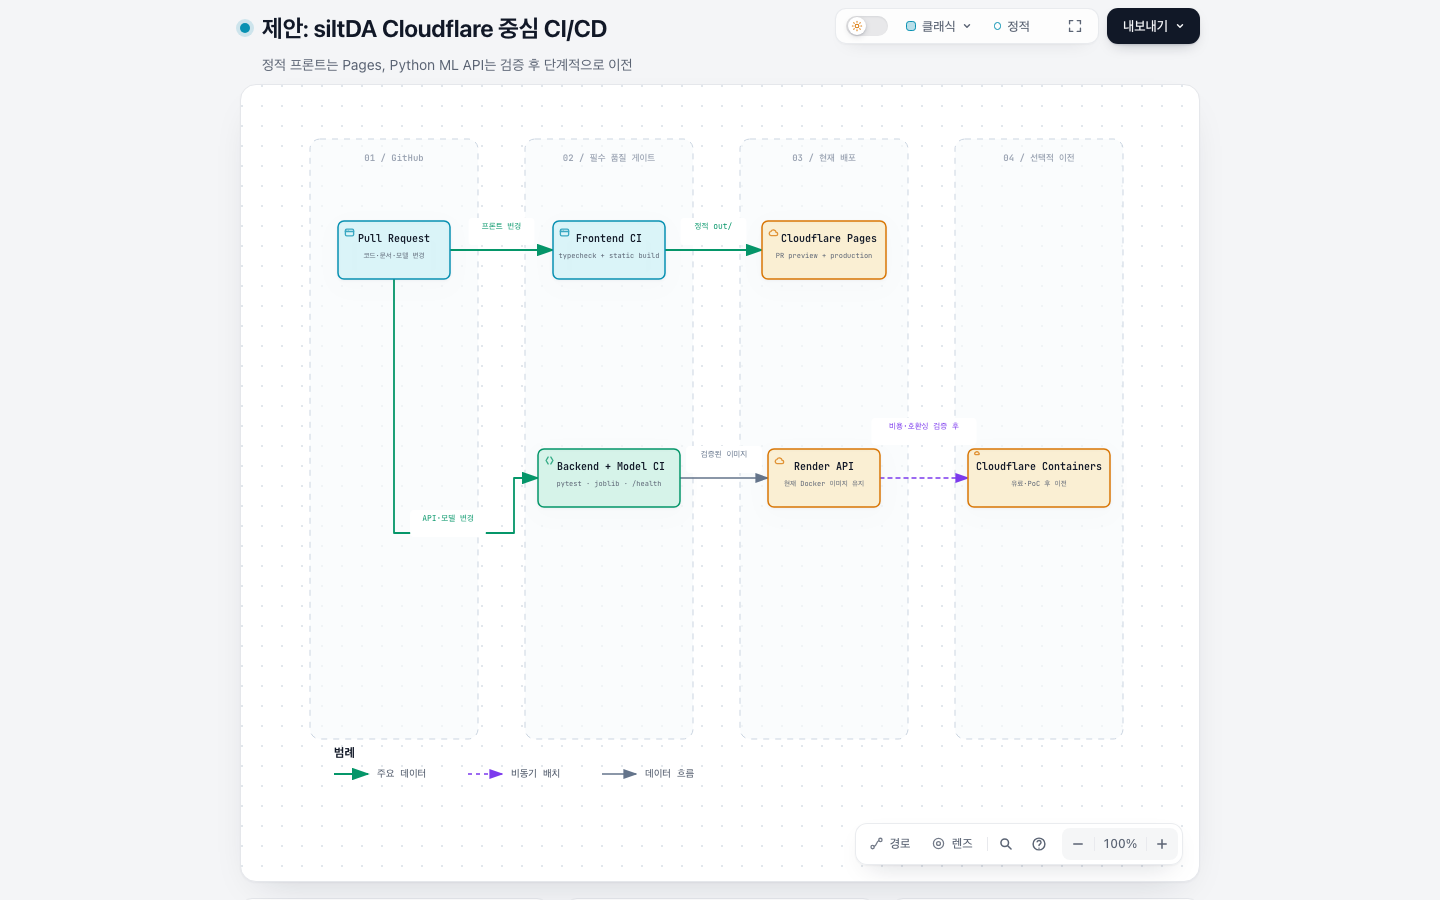
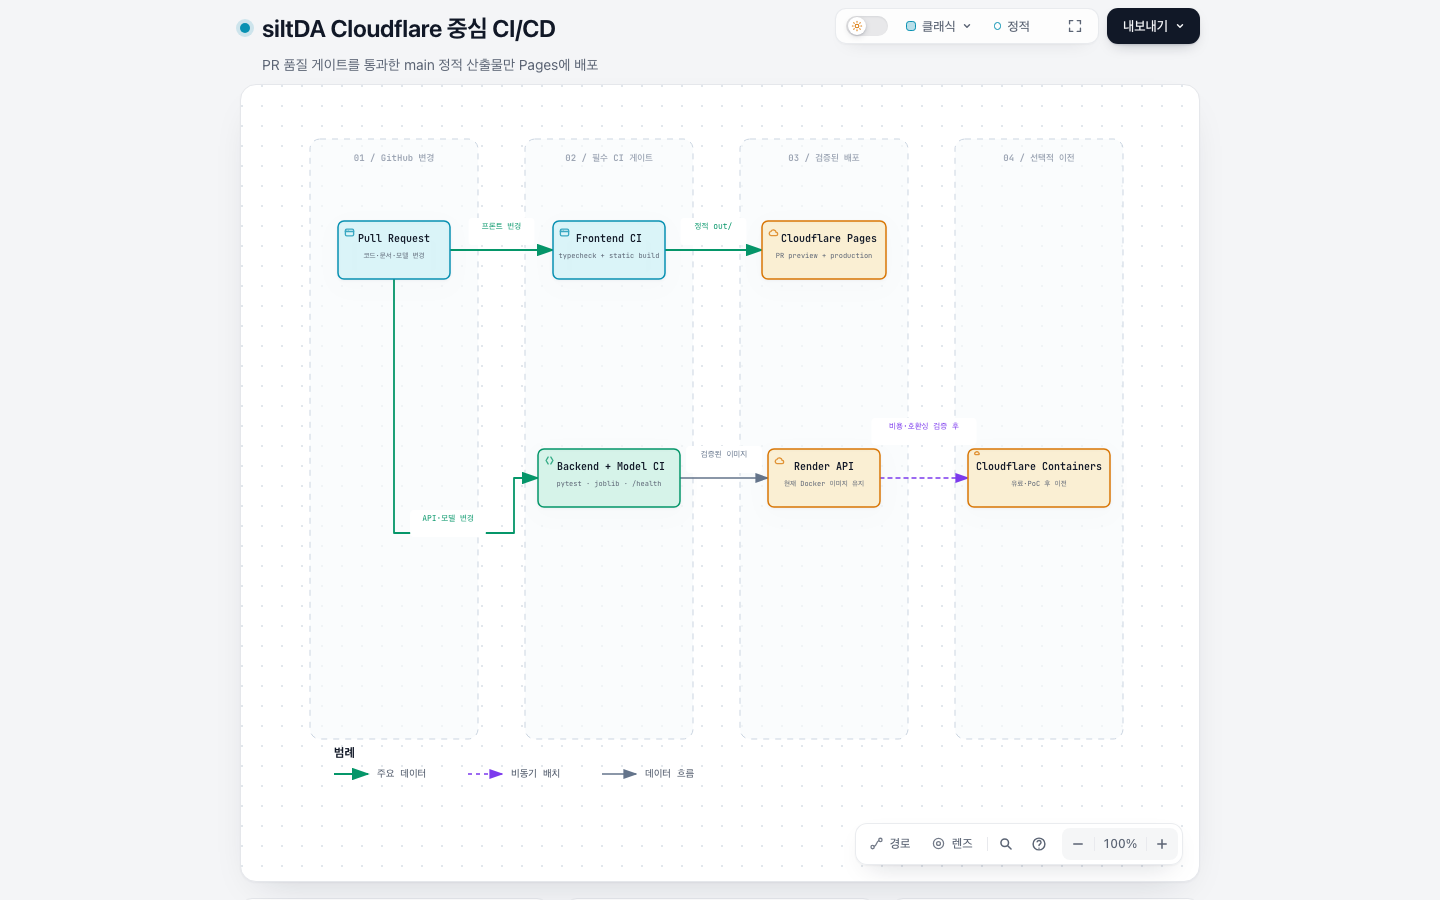
ci: validate model and deploy Pages

diff --git a/docs/architecture/cloudflare-cicd-proposal.html b/docs/architecture/cloudflare-cicd-proposal.html
@@ -5,7 +5,7 @@
   <meta name="viewport" content="width=device-width, initial-scale=1.0">
   <meta name="generator" content="archify 3.2.0">
   <meta name="archify-reader-contract" content="declared-wide-v1">
-  <title>제안: siltDA Cloudflare 중심 CI/CD 다이어그램</title>
+  <title>siltDA Cloudflare 중심 CI/CD 다이어그램</title>
   <script>
     // Resolve the theme before first paint so light-preference users don't
     // see a dark flash. The toolbar script below re-applies with UI state.
@@ -5193,9 +5193,9 @@ OTHER DEALINGS IN THE FONT SOFTWARE.
            data-preset-badge-blueprint="블루프린트 / 개정 01"
            data-preset-badge-editorial="에디토리얼 / 현장 노트">
         <div class="pulse-dot"></div>
-        <h1>제안: siltDA Cloudflare 중심 CI/CD</h1>
+        <h1>siltDA Cloudflare 중심 CI/CD</h1>
       </div>
-      <p class="subtitle">정적 프론트는 Pages, Python ML API는 검증 후 단계적으로 이전</p>
+      <p class="subtitle">PR 품질 게이트를 통과한 main 정적 산출물만 Pages에 배포</p>
     </div>
 
 
@@ -5204,8 +5204,8 @@ OTHER DEALINGS IN THE FONT SOFTWARE.
     <div class="diagram-container" data-detail-level="read"
          data-preset-badge-editorial-plate="ARCHIFY / 도판 04">
       <svg viewBox="0 0 853 720" data-reader-fit="intrinsic-height" role="img" lang="ko" aria-labelledby="archify-diagram-title archify-diagram-description" data-animation="trace" data-preset="classic" data-quality-profile="showcase" data-motion-choreography="stream">
-        <title id="archify-diagram-title">제안: siltDA Cloudflare 중심 CI/CD</title>
-        <desc id="archify-diagram-description">정적 프론트는 Pages, Python ML API는 검증 후 단계적으로 이전</desc>
+        <title id="archify-diagram-title">siltDA Cloudflare 중심 CI/CD</title>
+        <desc id="archify-diagram-description">PR 품질 게이트를 통과한 main 정적 산출물만 Pages에 배포</desc>
         <!-- Definitions -->
         <defs>
           <marker id="arrowhead" markerWidth="10" markerHeight="7" refX="9" refY="3.5" orient="auto">
@@ -5230,13 +5230,13 @@ OTHER DEALINGS IN THE FONT SOFTWARE.
 
         <!-- Data Stages -->
         <rect data-graph-role="structural-frame" data-composition-frame-kind="stage" data-composition-frame-id="0" x="16" y="46" width="168" height="600" rx="10" class="c-lane" stroke-width="1"/>
-        <text x="100" y="68" class="t-dim" font-size="9" font-weight="600" text-anchor="middle">01 / GitHub</text>
+        <text x="100" y="68" class="t-dim" font-size="9" font-weight="600" text-anchor="middle">01 / GitHub 변경</text>
 
         <rect data-graph-role="structural-frame" data-composition-frame-kind="stage" data-composition-frame-id="1" x="231" y="46" width="168" height="600" rx="10" class="c-lane" stroke-width="1"/>
-        <text x="315" y="68" class="t-dim" font-size="9" font-weight="600" text-anchor="middle">02 / 필수 품질 게이트</text>
+        <text x="315" y="68" class="t-dim" font-size="9" font-weight="600" text-anchor="middle">02 / 필수 CI 게이트</text>
 
         <rect data-graph-role="structural-frame" data-composition-frame-kind="stage" data-composition-frame-id="2" x="446" y="46" width="168" height="600" rx="10" class="c-lane" stroke-width="1"/>
-        <text x="530" y="68" class="t-dim" font-size="9" font-weight="600" text-anchor="middle">03 / 현재 배포</text>
+        <text x="530" y="68" class="t-dim" font-size="9" font-weight="600" text-anchor="middle">03 / 검증된 배포</text>
 
         <rect data-graph-role="structural-frame" data-composition-frame-kind="stage" data-composition-frame-id="3" x="661" y="46" width="168" height="600" rx="10" class="c-lane" stroke-width="1"/>
         <text x="745" y="68" class="t-dim" font-size="9" font-weight="600" text-anchor="middle">04 / 선택적 이전</text>
@@ -5249,8 +5249,8 @@ OTHER DEALINGS IN THE FONT SOFTWARE.
         <path data-edge-from="render" data-edge-to="containers" data-edge-label="비용·호환성 검증 후" data-edge-key="4" data-edge-id="future" data-composition-points="586,385;674,385" d="M 586 385 L 674 385" class="a-dashed" data-animate="edge" style="--step:4" stroke-width="1.4" marker-end="url(#arrowhead-dashed)"/>
 
         <!-- Nodes -->
-        <g id="node-pull_request" data-node-id="pull_request" data-node-label="Pull Request" tabindex="0" role="button" aria-label="Pull Request 포커스, 코드·문서·모델 변경, 01 / GitHub" aria-pressed="false" data-node-kind="frontend" data-node-sublabel="코드·문서·모델 변경" data-node-tag="review" data-node-context="01 / GitHub">
-          <title>Pull Request · 코드·문서·모델 변경 · 01 / GitHub · review</title>
+        <g id="node-pull_request" data-node-id="pull_request" data-node-label="Pull Request" tabindex="0" role="button" aria-label="Pull Request 포커스, 코드·문서·모델 변경, 01 / GitHub 변경" aria-pressed="false" data-node-kind="frontend" data-node-sublabel="코드·문서·모델 변경" data-node-tag="review" data-node-context="01 / GitHub 변경">
+          <title>Pull Request · 코드·문서·모델 변경 · 01 / GitHub 변경 · review</title>
           <rect x="44" y="128" width="112" height="58" rx="6" class="c-mask"/>
           <rect x="44" y="128" width="112" height="58" rx="6" class="c-frontend" data-animate="node" style="--step:0" stroke-width="1.5"/>
           <g aria-hidden="true" data-semantic-sigil="frontend" class="semantic-sigil s-frontend" transform="translate(50 134) scale(0.6875)">
@@ -5264,8 +5264,8 @@ OTHER DEALINGS IN THE FONT SOFTWARE.
         <text data-detail="fine" x="100" y="175" class="t-frontend" font-size="7" text-anchor="middle">review</text>
         </g>
 
-        <g id="node-frontend_ci" data-node-id="frontend_ci" data-node-label="Frontend CI" tabindex="0" role="button" aria-label="Frontend CI 포커스, typecheck + static build, 02 / 필수 품질 게이트" aria-pressed="false" data-node-kind="frontend" data-node-sublabel="typecheck + static build" data-node-tag="Node 20" data-node-context="02 / 필수 품질 게이트">
-          <title>Frontend CI · typecheck + static build · 02 / 필수 품질 게이트 · Node 20</title>
+        <g id="node-frontend_ci" data-node-id="frontend_ci" data-node-label="Frontend CI" tabindex="0" role="button" aria-label="Frontend CI 포커스, typecheck + static build, 02 / 필수 CI 게이트" aria-pressed="false" data-node-kind="frontend" data-node-sublabel="typecheck + static build" data-node-tag="Node 20" data-node-context="02 / 필수 CI 게이트">
+          <title>Frontend CI · typecheck + static build · 02 / 필수 CI 게이트 · Node 20</title>
           <rect x="259" y="128" width="112" height="58" rx="6" class="c-mask"/>
           <rect x="259" y="128" width="112" height="58" rx="6" class="c-frontend" data-animate="node" style="--step:1" stroke-width="1.5"/>
           <g aria-hidden="true" data-semantic-sigil="frontend" class="semantic-sigil s-frontend" transform="translate(265 134) scale(0.6875)">
@@ -5279,8 +5279,8 @@ OTHER DEALINGS IN THE FONT SOFTWARE.
         <text data-detail="fine" x="315" y="175" class="t-frontend" font-size="7" text-anchor="middle">Node 20</text>
         </g>
 
-        <g id="node-backend_ci" data-node-id="backend_ci" data-node-label="Backend + Model CI" tabindex="0" role="button" aria-label="Backend + Model CI 포커스, pytest · joblib · /health, 02 / 필수 품질 게이트" aria-pressed="false" data-node-kind="backend" data-node-sublabel="pytest · joblib · /health" data-node-tag="Python 3.12" data-node-context="02 / 필수 품질 게이트">
-          <title>Backend + Model CI · pytest · joblib · /health · 02 / 필수 품질 게이트 · Python 3.12</title>
+        <g id="node-backend_ci" data-node-id="backend_ci" data-node-label="Backend + Model CI" tabindex="0" role="button" aria-label="Backend + Model CI 포커스, pytest · joblib · /health, 02 / 필수 CI 게이트" aria-pressed="false" data-node-kind="backend" data-node-sublabel="pytest · joblib · /health" data-node-tag="Python 3.12" data-node-context="02 / 필수 CI 게이트">
+          <title>Backend + Model CI · pytest · joblib · /health · 02 / 필수 CI 게이트 · Python 3.12</title>
           <rect x="244" y="356" width="142" height="58" rx="6" class="c-mask"/>
           <rect x="244" y="356" width="142" height="58" rx="6" class="c-backend" data-animate="node" style="--step:2" stroke-width="1.5"/>
           <g aria-hidden="true" data-semantic-sigil="backend" class="semantic-sigil s-backend" transform="translate(250 362) scale(0.6875)">
@@ -5291,8 +5291,8 @@ OTHER DEALINGS IN THE FONT SOFTWARE.
         <text data-detail="fine" x="315" y="403" class="t-backend" font-size="7" text-anchor="middle">Python 3.12</text>
         </g>
 
-        <g id="node-pages" data-node-id="pages" data-node-label="Cloudflare Pages" tabindex="0" role="button" aria-label="Cloudflare Pages 포커스, PR preview + production, 03 / 현재 배포" aria-pressed="false" data-node-kind="cloud" data-node-sublabel="PR preview + production" data-node-tag="권장" data-node-context="03 / 현재 배포">
-          <title>Cloudflare Pages · PR preview + production · 03 / 현재 배포 · 권장</title>
+        <g id="node-pages" data-node-id="pages" data-node-label="Cloudflare Pages" tabindex="0" role="button" aria-label="Cloudflare Pages 포커스, PR preview + production, 03 / 검증된 배포" aria-pressed="false" data-node-kind="cloud" data-node-sublabel="PR preview + production" data-node-tag="권장" data-node-context="03 / 검증된 배포">
+          <title>Cloudflare Pages · PR preview + production · 03 / 검증된 배포 · 권장</title>
           <rect x="468" y="128" width="124" height="58" rx="6" class="c-mask"/>
           <rect x="468" y="128" width="124" height="58" rx="6" class="c-cloud" data-animate="node" style="--step:3" stroke-width="1.5"/>
           <g aria-hidden="true" data-semantic-sigil="cloud" class="semantic-sigil s-cloud" transform="translate(474 134) scale(0.6875)">
@@ -5303,8 +5303,8 @@ OTHER DEALINGS IN THE FONT SOFTWARE.
         <text data-detail="fine" x="530" y="175" class="t-cloud" font-size="7" text-anchor="middle">권장</text>
         </g>
 
-        <g id="node-render" data-node-id="render" data-node-label="Render API" tabindex="0" role="button" aria-label="Render API 포커스, 현재 Docker 이미지 유지, 03 / 현재 배포" aria-pressed="false" data-node-kind="cloud" data-node-sublabel="현재 Docker 이미지 유지" data-node-tag="1단계" data-node-context="03 / 현재 배포">
-          <title>Render API · 현재 Docker 이미지 유지 · 03 / 현재 배포 · 1단계</title>
+        <g id="node-render" data-node-id="render" data-node-label="Render API" tabindex="0" role="button" aria-label="Render API 포커스, 현재 Docker 이미지 유지, 03 / 검증된 배포" aria-pressed="false" data-node-kind="cloud" data-node-sublabel="현재 Docker 이미지 유지" data-node-tag="1단계" data-node-context="03 / 검증된 배포">
+          <title>Render API · 현재 Docker 이미지 유지 · 03 / 검증된 배포 · 1단계</title>
           <rect x="474" y="356" width="112" height="58" rx="6" class="c-mask"/>
           <rect x="474" y="356" width="112" height="58" rx="6" class="c-cloud" data-animate="node" style="--step:4" stroke-width="1.5"/>
           <g aria-hidden="true" data-semantic-sigil="cloud" class="semantic-sigil s-cloud" transform="translate(480 362) scale(0.6875)">
@@ -5550,24 +5550,25 @@ OTHER DEALINGS IN THE FONT SOFTWARE.
       <div class="card">
         <div class="card-header">
           <div class="card-dot emerald"></div>
-          <h3>지금 권장하는 조합</h3>
+          <h3>구축된 배포 경로</h3>
         </div>
         <ul>
-          <li>Next.js 정적 산출물은 Cloudflare Pages에서 PR 미리보기와 운영 배포</li>
+          <li>PR과 main에서 프론트·백엔드·컨테이너 검증을 모두 수행한다</li>
+          <li>검증된 main의 동일한 out 아티팩트만 Cloudflare Pages에 배포한다</li>
           <li>FastAPI·scikit-learn·LightGBM은 현재 Docker/Render 경로 유지</li>
-          <li>브랜치 보호 규칙으로 프론트·백엔드·모델 호환성 검사를 필수화</li>
+          <li>브랜치 보호 규칙으로 세 CI 작업을 병합 조건으로 지정한다</li>
         </ul>
       </div>
 
       <div class="card">
         <div class="card-header">
-          <div class="card-dot amber"></div>
-          <h3>먼저 해결할 항목</h3>
+          <div class="card-dot rose"></div>
+          <h3>자동 차단 조건</h3>
         </div>
         <ul>
-          <li>개발 requirements와 커밋된 joblib 모델의 scikit-learn 버전을 일치시킨다</li>
-          <li>Python 3.12에서 실제 모델 로드와 API 스모크 테스트를 수행한다</li>
-          <li>Pages 환경변수와 API CORS 허용 도메인을 분리 관리한다</li>
+          <li>개발 환경은 모델 생성 버전과 동일한 scikit-learn 1.5.2를 상속한다</li>
+          <li>실제 joblib 로드·API 테스트·Docker 빌드 실패 시 병합과 배포를 중단한다</li>
+          <li>ML API 주소가 비었거나 HTTPS가 아니면 운영 배포를 중단한다</li>
         </ul>
       </div>
 

diff --git a/README.md b/README.md
@@ -102,6 +102,19 @@ npm run build
 
 Cesium의 Worker, Assets, Widgets, ThirdParty 런타임 파일은 `postinstall`과 `build` 단계에서 `public/cesium`으로 복사됩니다.
 
+### 백엔드 검증
+
+```bash
+cd backend
+python3.12 -m venv .venv
+source .venv/bin/activate
+python -m pip install -r requirements.txt
+python -m pip check
+python -m pytest -q
+```
+
+`requirements.txt`는 커밋된 joblib 모델을 만든 `requirements-serve.txt`의 정확한 NumPy·scikit-learn·LightGBM 버전을 상속합니다. 이 핵심 버전을 바꿀 때는 모델을 다시 학습하고 실제 모델 테스트를 통과한 새 아티팩트를 함께 커밋해야 합니다.
+
 ## 🗺 지도 공급자와 대체 경로
 
 기본 실행에는 API 키가 필요하지 않습니다.
@@ -154,23 +167,24 @@ scripts/                 Cesium 자산 복사 스크립트
 
 ## ☁ CI/CD 검토 결과
 
-현재 구조에는 **프론트엔드 Cloudflare Pages + ML API Docker 배포**의 혼합 구성이 가장 안전합니다. Next.js는 정적 산출물 `out/`을 만들 수 있어 Pages와 잘 맞지만, 커밋된 joblib 모델은 정확한 scikit-learn 버전에 의존하므로 Python Worker로 바로 옮기기보다 컨테이너 경로를 유지하는 편이 재현성이 높습니다.
+현재 구조에는 **프론트엔드 Cloudflare Pages + ML API Docker 배포**의 혼합 구성을 적용했습니다. Next.js는 정적 산출물 `out/`을 만들 수 있어 Pages와 잘 맞지만, 커밋된 joblib 모델은 정확한 scikit-learn 버전에 의존하므로 Python Worker로 바로 옮기기보다 컨테이너 경로를 유지하는 편이 재현성이 높습니다.
 
 <div align="center">
   <a href="./docs/architecture/cloudflare-cicd-proposal.html?theme=light">
     <img src="./docs/architecture/cloudflare-cicd-proposal.png" alt="siltDA Cloudflare 중심 CI/CD 제안" width="100%" />
   </a>
   <br />
-  <sub>제안안이며 아직 배포 워크플로를 설치한 상태는 아닙니다.</sub>
+  <sub>현재 저장소에 반영된 CI/CD 구조입니다. Cloudflare 계정 값 등록 후 운영 배포가 활성화됩니다.</sub>
 </div>
 
-권장 적용 순서는 다음과 같습니다.
+구축된 흐름은 다음과 같습니다.
 
-1. `requirements.txt`와 모델 아티팩트의 scikit-learn 버전을 먼저 일치시킵니다.
-2. GitHub 필수 체크에 프론트 `typecheck/build`, 백엔드 `pytest`, 실제 joblib 로드와 `/health` 스모크 테스트를 추가합니다.
-3. Cloudflare Pages Git 연동으로 PR 미리보기와 `main` 운영 배포를 구성합니다.
-4. ML API는 당분간 `render.yaml`과 Docker 이미지를 유지합니다.
-5. 완전한 Cloudflare 구성이 필요하면 동일 이미지를 Cloudflare Containers에서 PoC한 뒤 비용·콜드 스타트·모델 메모리를 비교합니다.
+1. PR과 `main`에서 프론트 `typecheck/build`, 백엔드 `pytest`와 실제 joblib 로드, Docker 이미지 빌드를 실행합니다.
+2. 세 검사를 통과한 `main`의 동일한 `out/` 아티팩트만 Cloudflare Pages에 배포합니다.
+3. ML API는 `render.yaml`과 Docker 이미지를 유지합니다.
+4. 완전한 Cloudflare 구성이 필요하면 동일 이미지를 Cloudflare Containers에서 PoC한 뒤 비용·콜드 스타트·모델 메모리를 비교합니다.
+
+Cloudflare 프로젝트 생성, GitHub 환경 비밀 값, 브랜치 보호 설정은 [배포 설정 가이드](./docs/deployment/cloudflare-pages.md)를 따릅니다.
 
 ## 🙌 참고
 

diff --git a/docs/deployment/cloudflare-pages.md b/docs/deployment/cloudflare-pages.md
@@ -1,0 +1,58 @@
+# Cloudflare Pages 배포 설정
+
+이 저장소의 `.github/workflows/ci-cd.yml`은 Pull Request에서 전체 검증을 실행하고, 검증을 통과한 `main` 커밋만 Cloudflare Pages에 배포합니다.
+
+## 1. Pages 프로젝트 생성
+
+Cloudflare 대시보드에서 Direct Upload 방식의 Pages 프로젝트 `siltda`를 한 번 생성합니다. Wrangler를 사용한다면 인증 후 다음 명령을 실행할 수 있습니다.
+
+```bash
+npx wrangler pages project create siltda --production-branch main
+```
+
+> Direct Upload 프로젝트와 Git 연동 프로젝트는 나중에 서로 전환할 수 없습니다. 이 저장소는 GitHub Actions가 검증한 동일한 `out/` 아티팩트를 배포하도록 Direct Upload 방식을 사용합니다.
+
+## 2. GitHub Actions 환경 구성
+
+GitHub 저장소의 **Settings → Environments**에서 `cloudflare-pages-production` 환경을 생성한 뒤 다음 비밀 값을 등록합니다.
+
+### Environment secrets
+
+| 이름 | 값 |
+| --- | --- |
+| `CLOUDFLARE_ACCOUNT_ID` | Cloudflare 계정 ID |
+| `CLOUDFLARE_API_TOKEN` | `Account / Cloudflare Pages / Edit` 권한의 API 토큰 |
+
+운영 API 주소는 PR과 `main`의 프론트 빌드에서 모두 필요하므로 **Settings → Secrets and variables → Actions → Variables**에 저장소 변수로 등록합니다.
+
+### Repository variable
+
+| 이름 | 값 |
+| --- | --- |
+| `NEXT_PUBLIC_SILTDA_ML_API_URL` | 운영 FastAPI의 HTTPS 주소. 예: `https://siltda-ml-api.onrender.com` |
+
+환경에는 필요하면 승인자와 배포 브랜치 `main` 보호 규칙도 설정합니다. 토큰은 저장소 파일이나 일반 변수에 넣지 않습니다.
+
+## 3. GitHub 브랜치 보호
+
+`main` 브랜치에 다음 상태 검사를 필수로 지정합니다.
+
+- `Frontend / typecheck and static build`
+- `Backend / tests and model compatibility`
+- `Backend / production container build`
+
+PR #1처럼 외부 fork에서 만들어진 Pull Request에도 비밀 값 없이 세 CI 검사가 실행됩니다. Cloudflare 자격 증명은 `main` 배포 작업에서만 읽습니다.
+
+## 4. 배포 흐름
+
+1. Pull Request 생성 또는 갱신
+2. 프론트 정적 빌드, Python 테스트와 실제 모델 로드, Docker 이미지 빌드
+3. 리뷰 후 `main` 병합
+4. 같은 세 검사를 `main`에서 다시 실행
+5. 성공한 프론트 `out/` 아티팩트만 Pages에 배포
+
+배포 작업은 `NEXT_PUBLIC_SILTDA_ML_API_URL`이 비어 있거나 HTTPS가 아니면 중단됩니다. 배포 결과 URL은 GitHub Deployment와 작업 요약에 기록됩니다.
+
+## 5. ML API 배포
+
+현재 모델은 scikit-learn·LightGBM·joblib 고정 버전에 의존하므로 `render.yaml`과 `backend/Dockerfile`을 통한 컨테이너 배포를 유지합니다. Cloudflare Containers 이전은 별도 PoC에서 모델 크기, 시작 시간, 비용을 검증한 뒤 진행합니다.

diff --git a/backend/README.md b/backend/README.md
@@ -28,6 +28,8 @@ python -m pytest -q                     # tests (synthetic data in a temp dir)
 uvicorn siltda_ml.api:app --port 8000   # Swagger: http://localhost:8000/docs
 ```
 
+`requirements.txt`는 아래의 학습·테스트 도구에 더해 `requirements-serve.txt`를 그대로 포함합니다. 따라서 로컬 테스트, CI, 프로덕션 이미지가 커밋된 joblib 모델과 동일한 NumPy·scikit-learn·LightGBM 버전을 사용합니다. 핵심 핀을 변경할 때는 모델을 재학습하고 아티팩트도 함께 갱신해야 합니다.
+
 Env: `SILTDA_MODEL_PATH` (default `artifacts/erosion_model.joblib`), `SILTDA_CORS_ORIGINS`
 (default `localhost:3000`, `127.0.0.1:3000`, `https://siltda.pages.dev`).
 Frontend: `NEXT_PUBLIC_SILTDA_ML_API_URL` (must be HTTPS in production).
